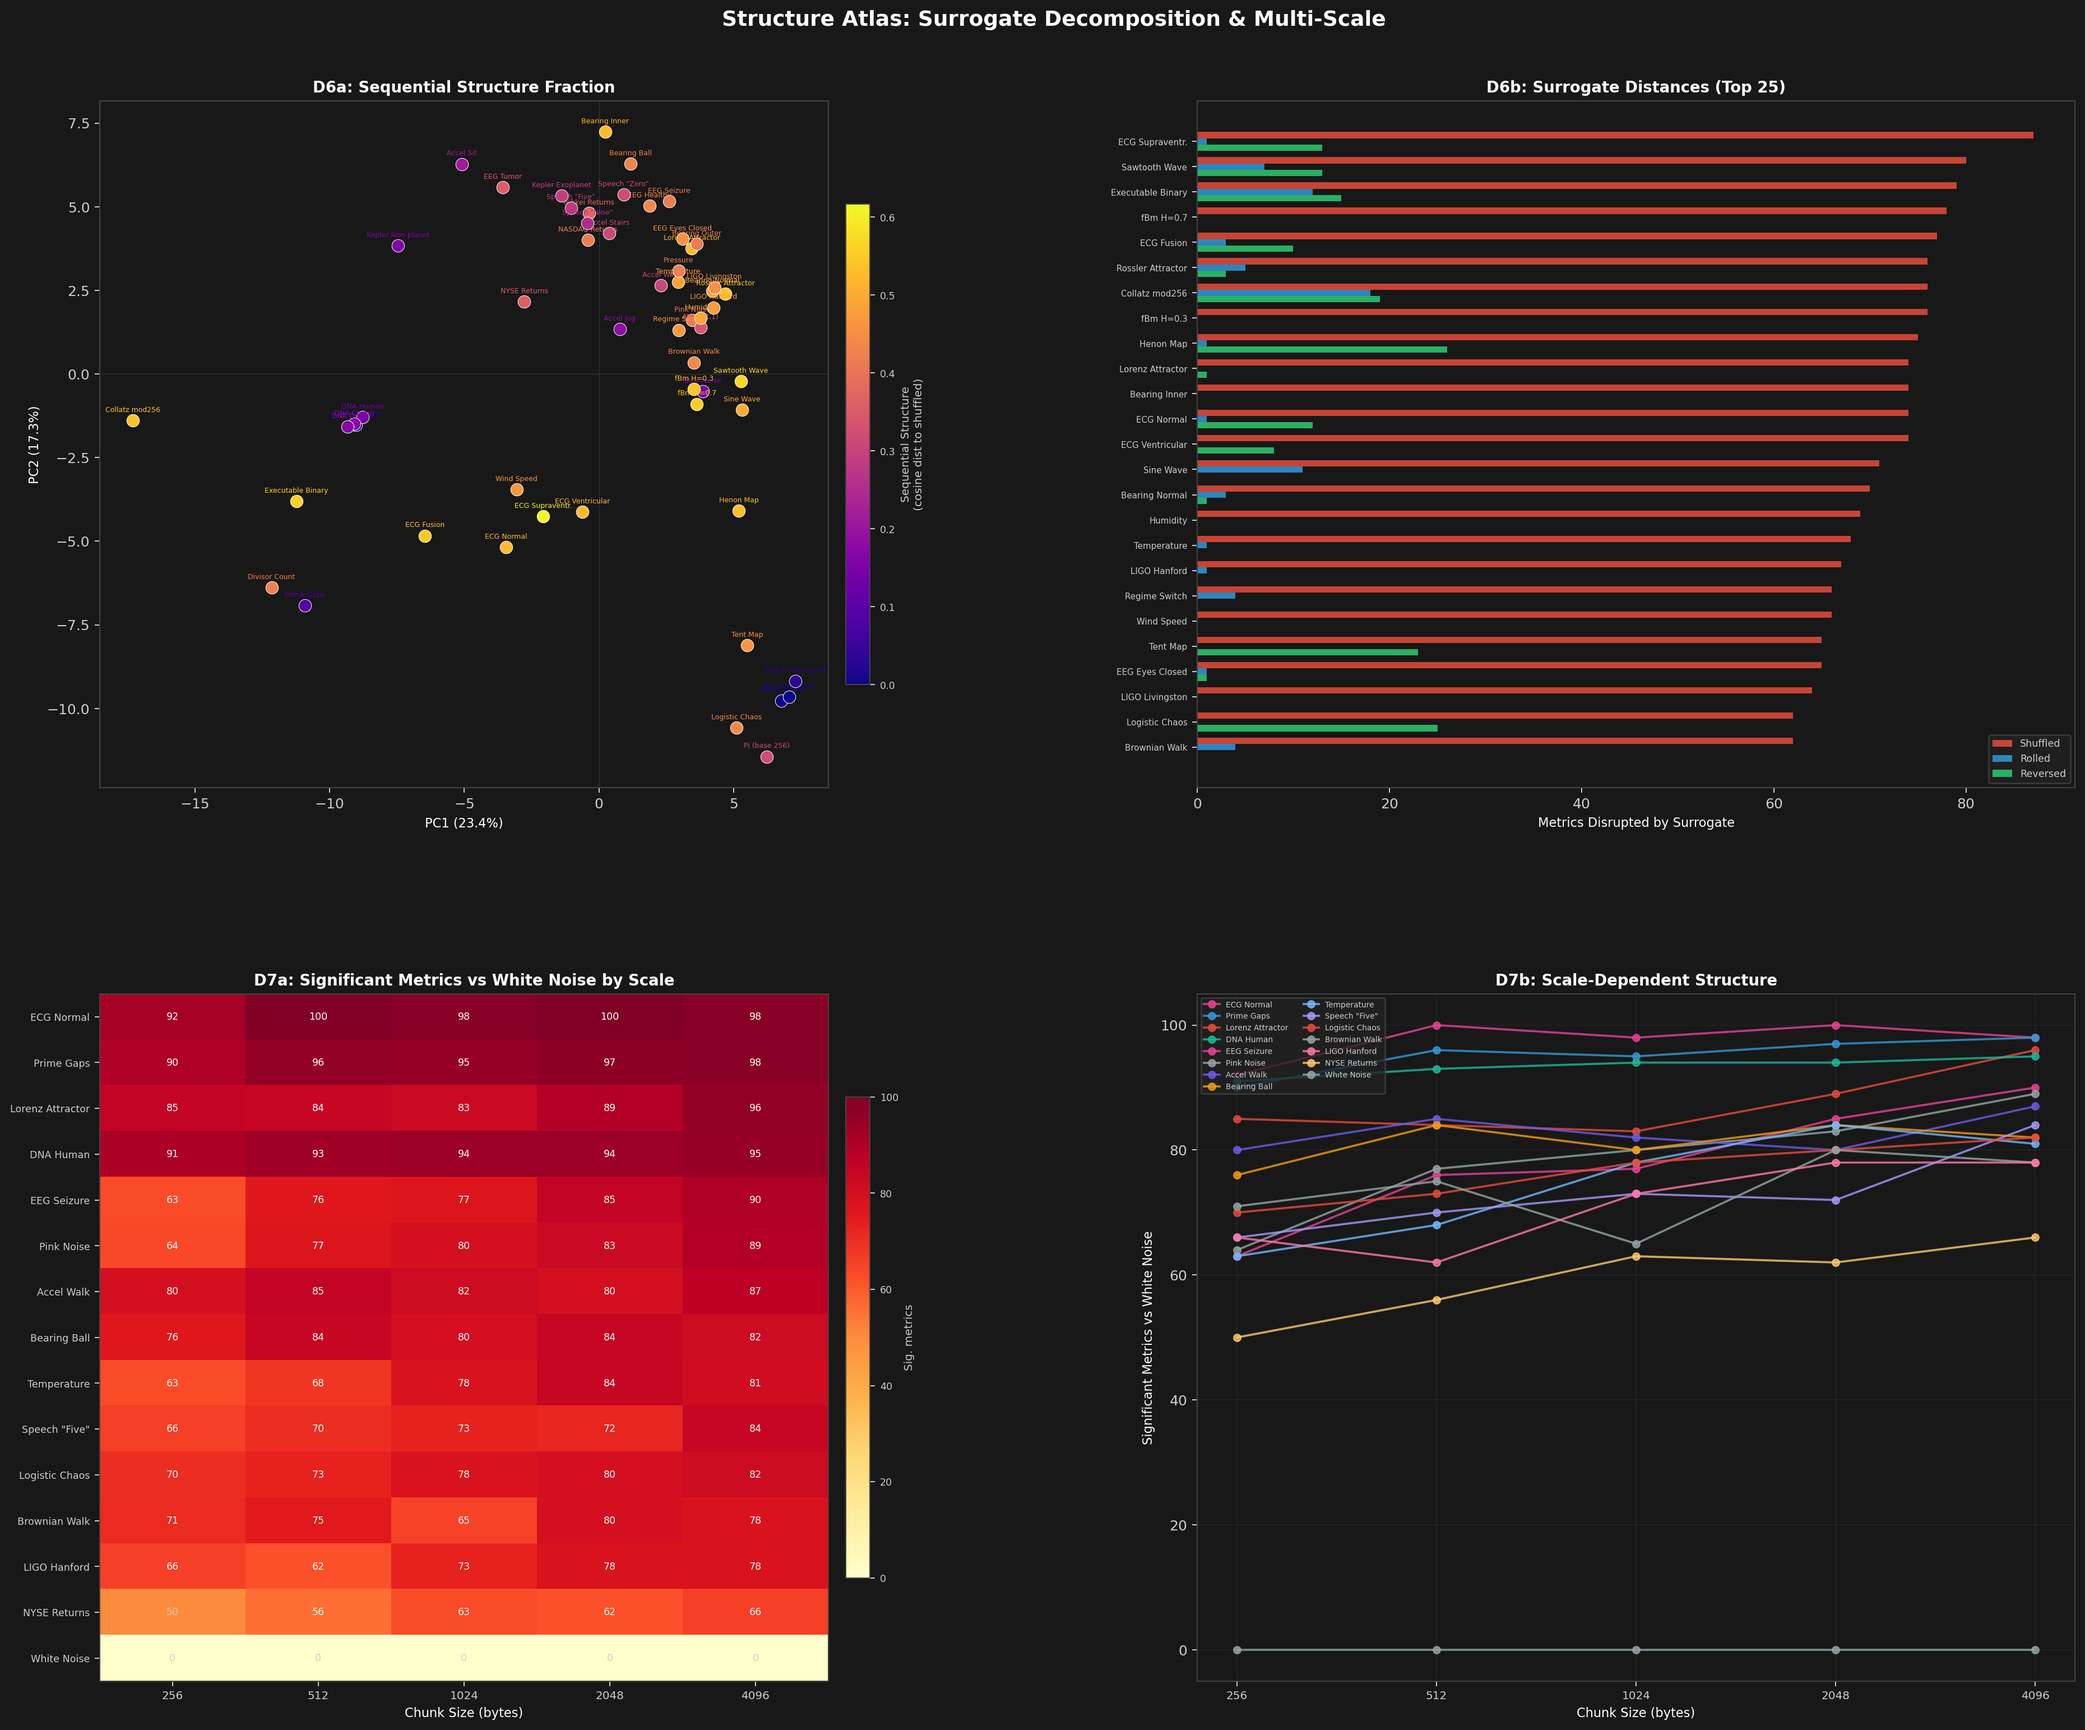
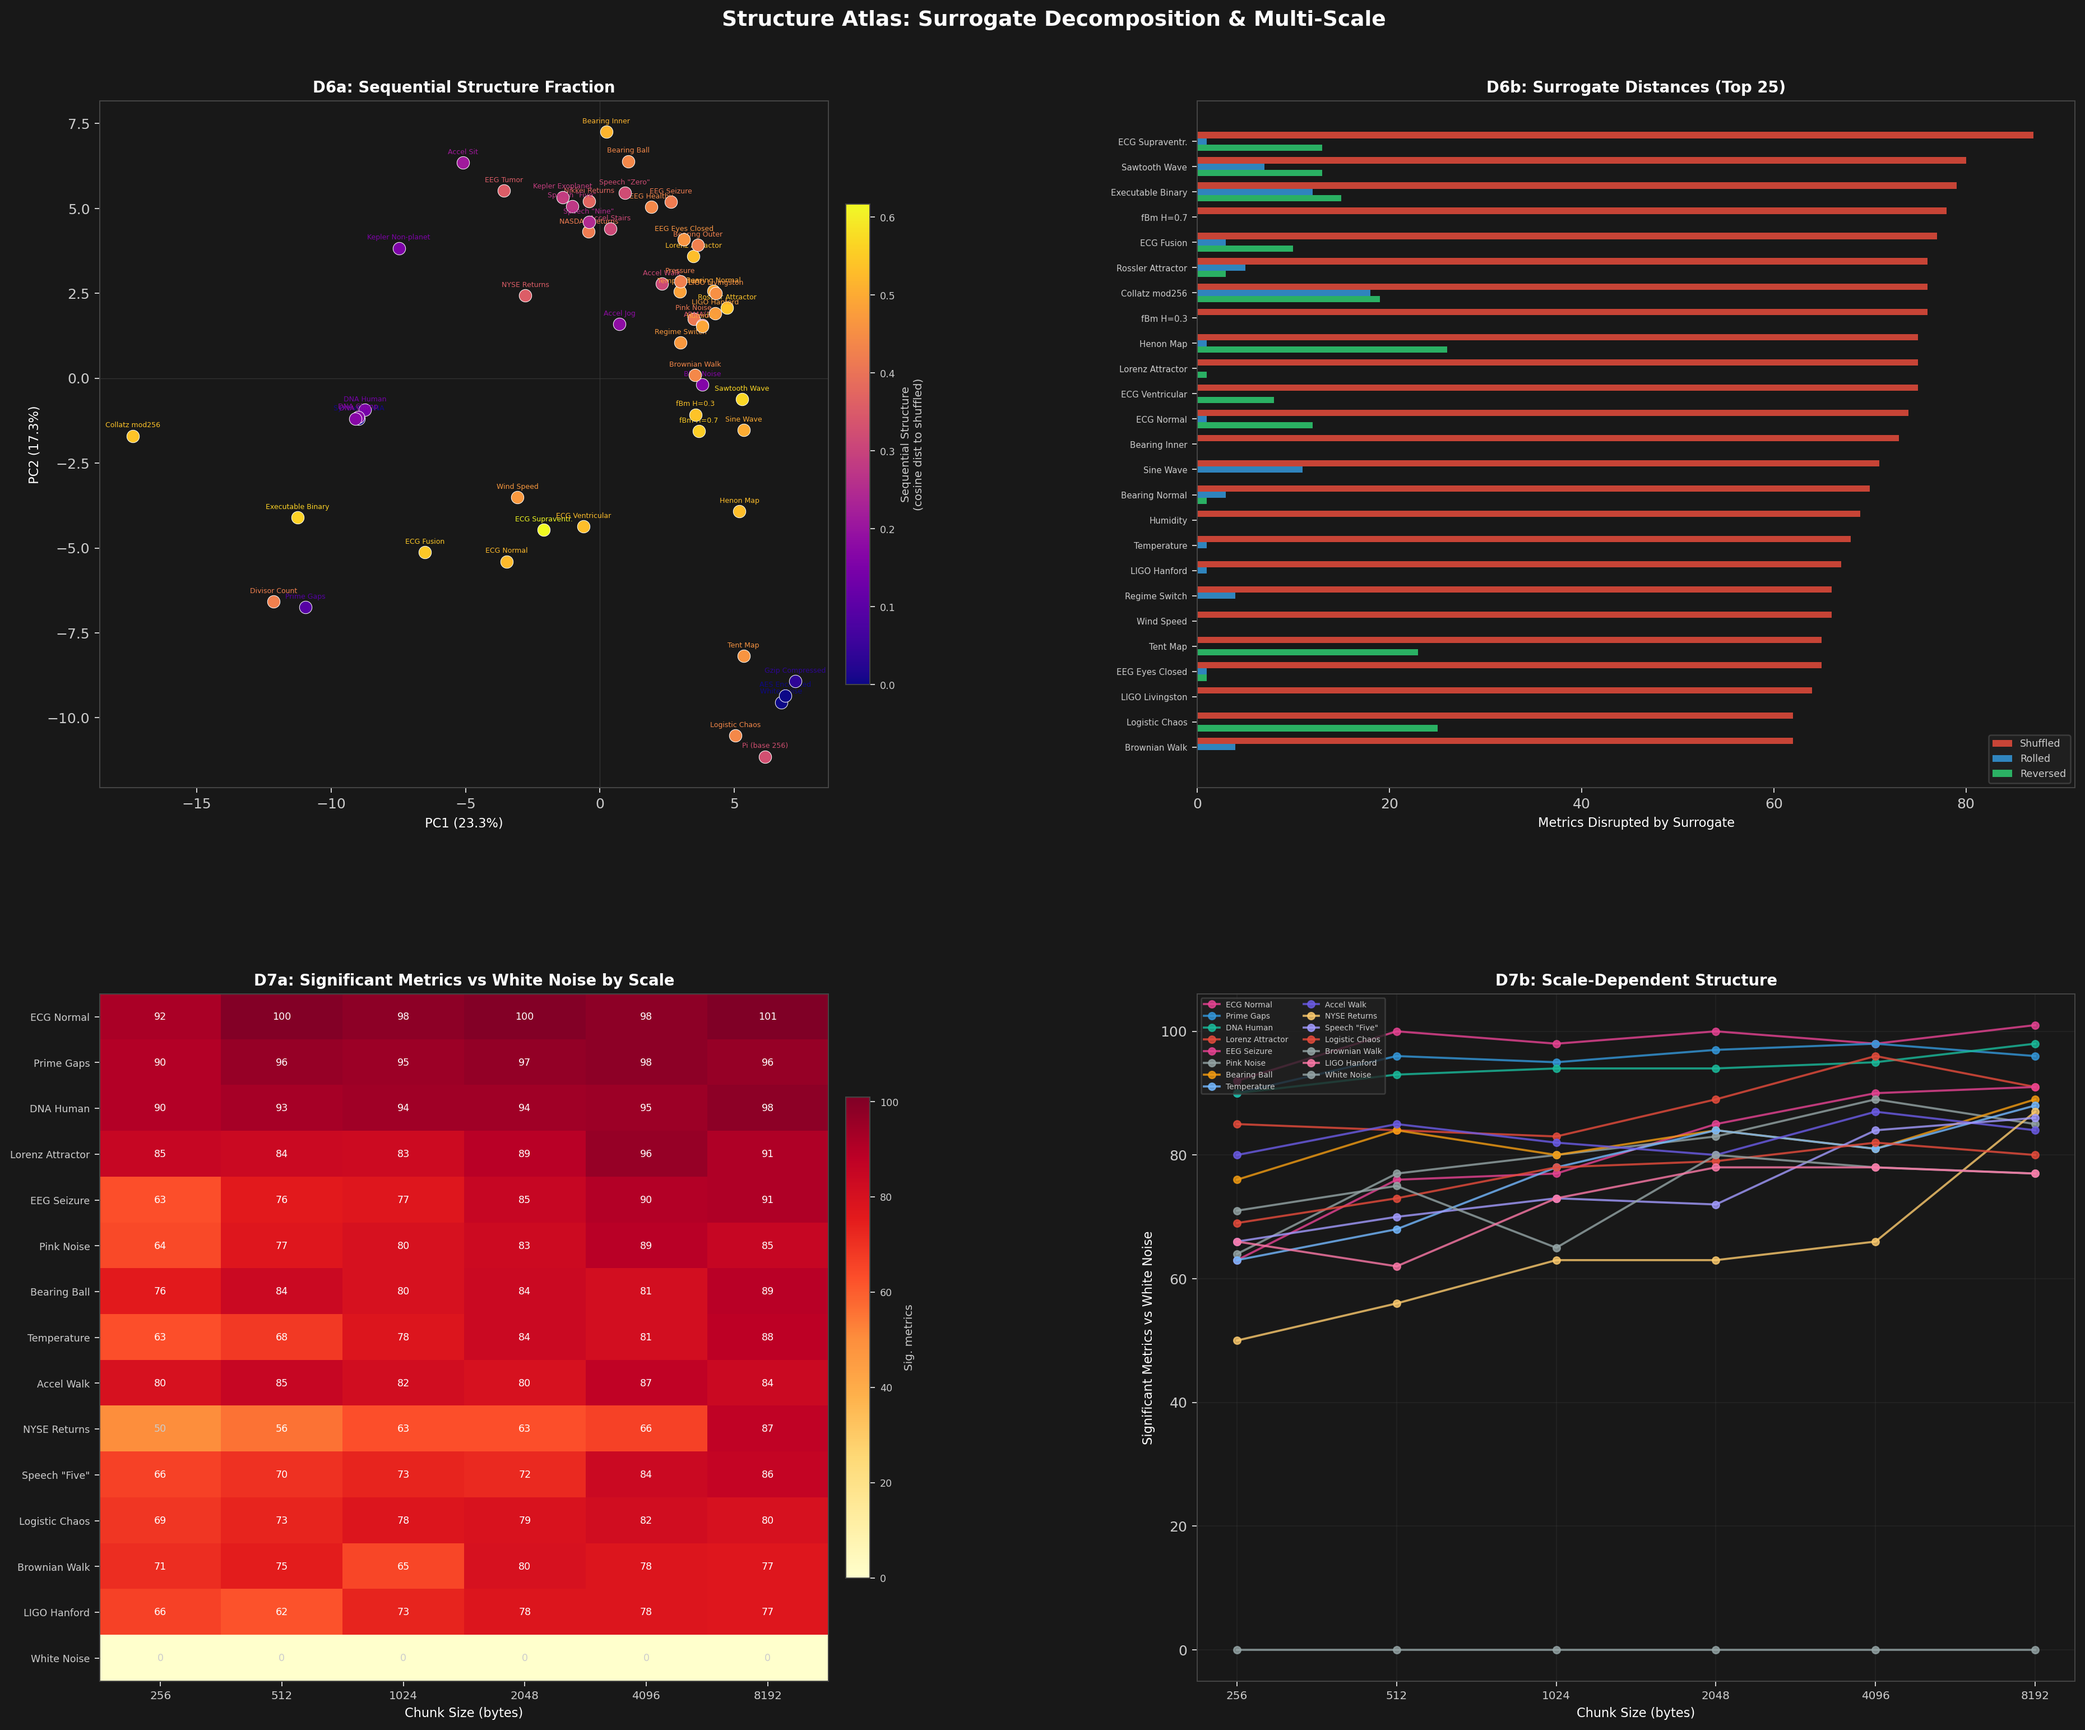
Extend multi-scale filtration to 8192 bytes, update docs with new results
NYSE Returns jumps from 66→87 significant metrics at 8192 bytes,
confirming financial data needs longer observation windows.

diff --git a/investigations/1d/structure_atlas.py b/investigations/1d/structure_atlas.py
@@ -1102,7 +1102,7 @@ def direction_7(runner, domains):
 
     from scipy import stats as sp_stats
 
-    SCALES = [256, 512, 1024, 2048, 4096]
+    SCALES = [256, 512, 1024, 2048, 4096, 8192]
 
     # Representative subset — one per major structure type + key exemplars
     SUBSET = [

diff --git a/README.md b/README.md
@@ -171,7 +171,7 @@ Twelve elementary CA rules spanning all four Wolfram complexity classes, analyze
 - **Cross-domain twins**: EEG Eyes Closed ↔ Bearing Outer (d=0.084), EEG Seizure ↔ Speech (d=0.18), financial returns ↔ accelerometer (NASDAQ ↔ Accel Stairs d=0.16)
 - **DNA is unique**: synthetic and real DNA cluster tightly (Synthetic DNA ↔ DNA Chimp d=0.001), isolated from everything else in its own cluster
 - **Surrogate decomposition**: ECG Supraventricular is the most sequential source (87/141 metrics disrupted by shuffling, 62%). White Noise/AES = 0 disrupted. Pi (base 256) has more structure disrupted by rolling (69) than by shuffling (45) — positional structure beyond autocorrelation. Chaos maps are time-asymmetric (Henon: 26 rev metrics), financial returns too (Nikkei: 18 rev)
-- **Multi-scale robustness**: ECG Normal detectable at all scales (92-100 sig at 256-4096 bytes). DNA Human rock-solid (91-95). Financial returns grow with scale (50→66 sig)
+- **Multi-scale robustness**: ECG Normal detectable at all scales (92-101 sig at 256-8192 bytes). DNA Human rock-solid (90-98). NYSE Returns jump from 50 (256 bytes) to 87 (8192 bytes) — financial data needs longer windows
 
 ![Structure Atlas](docs/figures/structure_atlas.png)
 ![Structure Atlas 3D](docs/figures/structure_atlas_3d.png)

diff --git a/docs/FINDINGS.md b/docs/FINDINGS.md
@@ -241,7 +241,7 @@ All validated discoveries and negative results from 67 investigations.
 | 61b | Chaos maps are time-asymmetric: Henon (26 rev), Logistic (25), Tent (23) metrics disrupted by reversal | consistent with iterative map's forward direction | `1d/structure_atlas.py` |
 | 62 | Financial returns time-asymmetric at 12K bytes (Nikkei: 18, NYSE: 17, NASDAQ: 15 metrics disrupted by reversal) | markets have geometric time arrow | `1d/structure_atlas.py` |
 | 63 | 54% of all nearest-neighbor pairs (90/168) cross domain boundaries | structure space reflects universal motifs, not domain | `1d/structure_atlas.py` |
-| 64 | Multi-scale: ECG Normal detectable at all scales (92-100 sig at 256-4096 bytes), DNA Human rock-solid (91-95) | NYSE: 50→66 (grows with scale), White Noise: 0 at all scales | `1d/structure_atlas.py` |
+| 64 | Multi-scale: ECG Normal detectable at all scales (92-101 sig at 256-8192 bytes), DNA Human rock-solid (90-98) | NYSE: 50→87 at 8192 (financial needs longer windows), White Noise: 0 at all scales | `1d/structure_atlas.py` |
 
 ### Bearing Fault Diagnosis
 | # | Finding | Effect Size | Investigation |
